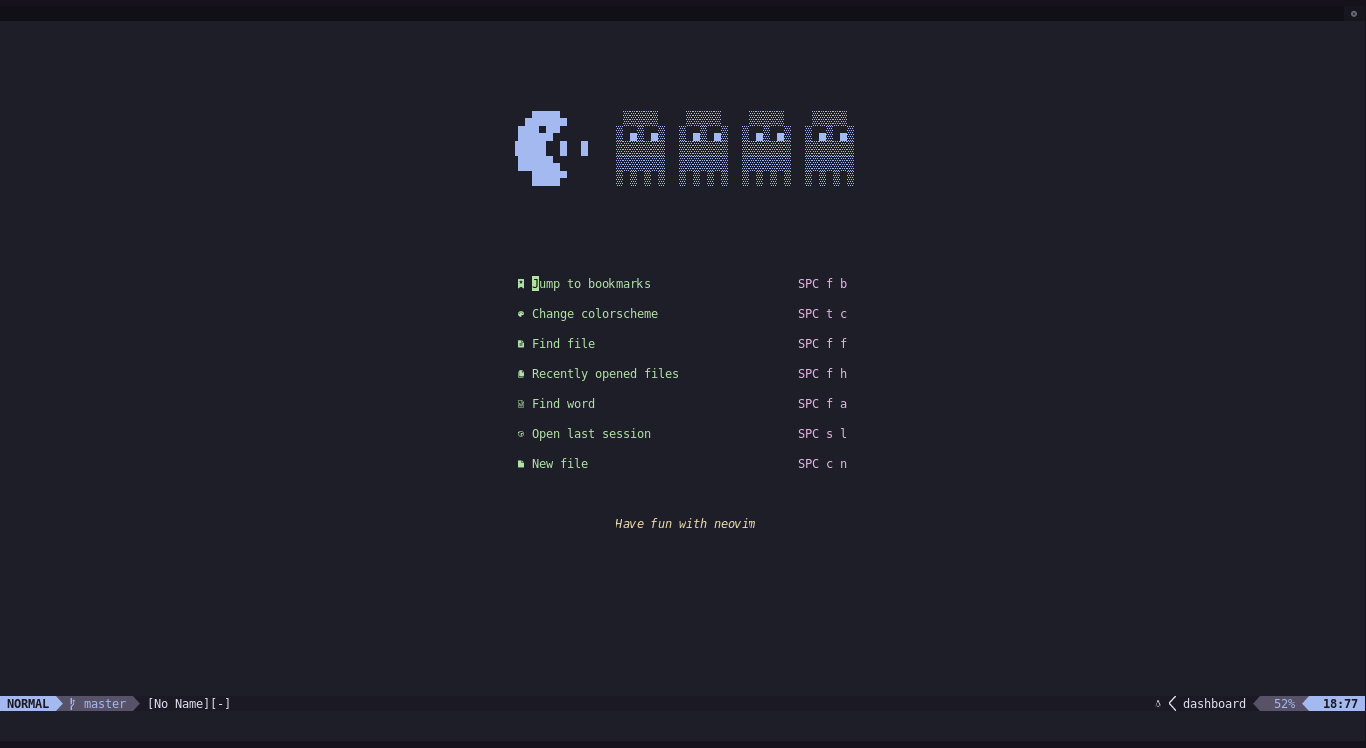
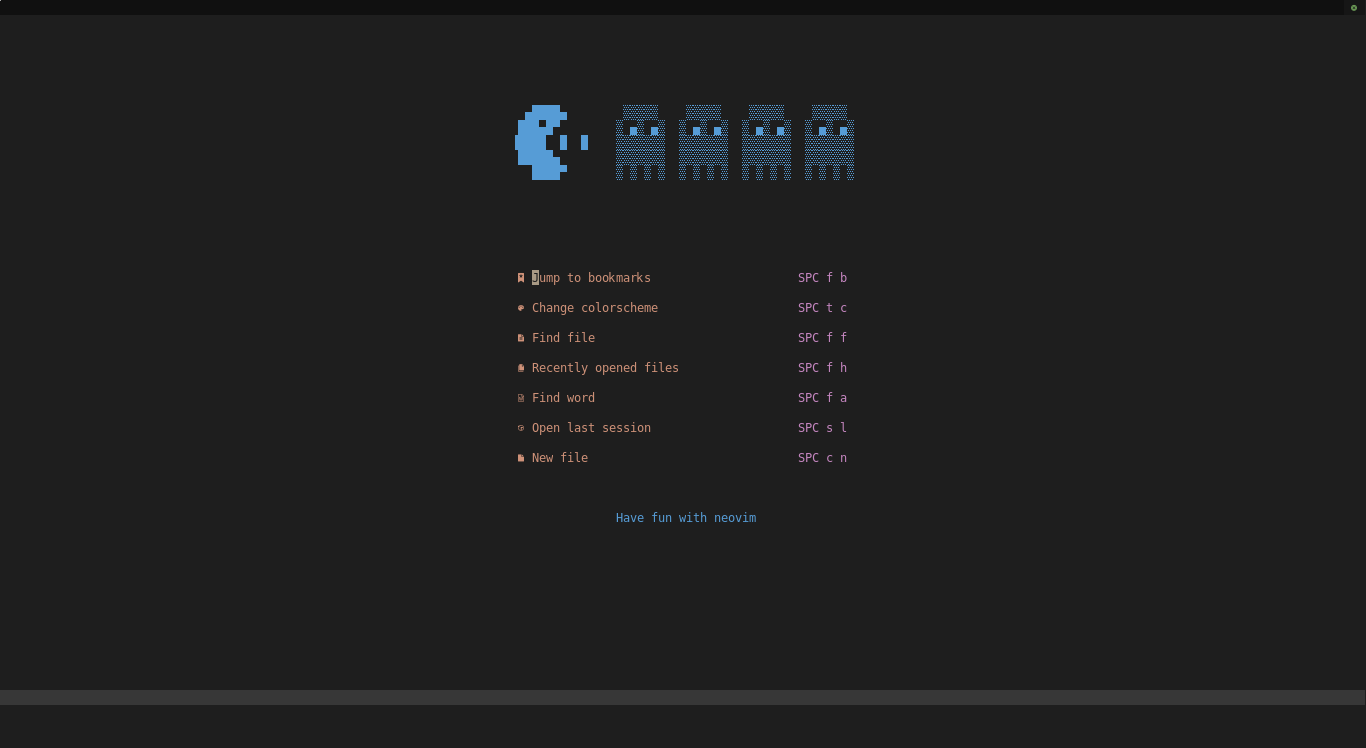
Ported to vs code theme

diff --git a/README.md b/README.md
@@ -9,7 +9,7 @@ My neovim configuration, designed mainly for speed while keeping aesthetics in m
 * Package management: [packer.nvim](https://github.com/wbthomason/packer.nvim) 📦
 * Start-up screen: [dashboard.nvim](https://github.com/glepnir/dashboard-nvim) 🎯
 * Intellisense: [coc.nvim](https://github.com/neoclide/coc.nvim) 🧠
-* Colorscheme: [Catppuccin](https://github.com/catppuccin/nvim) 🐱
+* Colorscheme: [Vscode.nvim](https://github.com/Mofiqul/vscode.nvim)
 * Status bar: [lualine.nvim](https://github.com/nvim-lualine/lualine.nvim) ℹ
 * Tabline: [bufferline.nvim](https://github.com/akinsho/bufferline.nvim) 📔
 * File Navigation: [telescope.nvim](https://github.com/nvim-telescope/telescope.nvim) and [coc-explorer](https://github.com/weirongxu/coc-explorer) 📁
